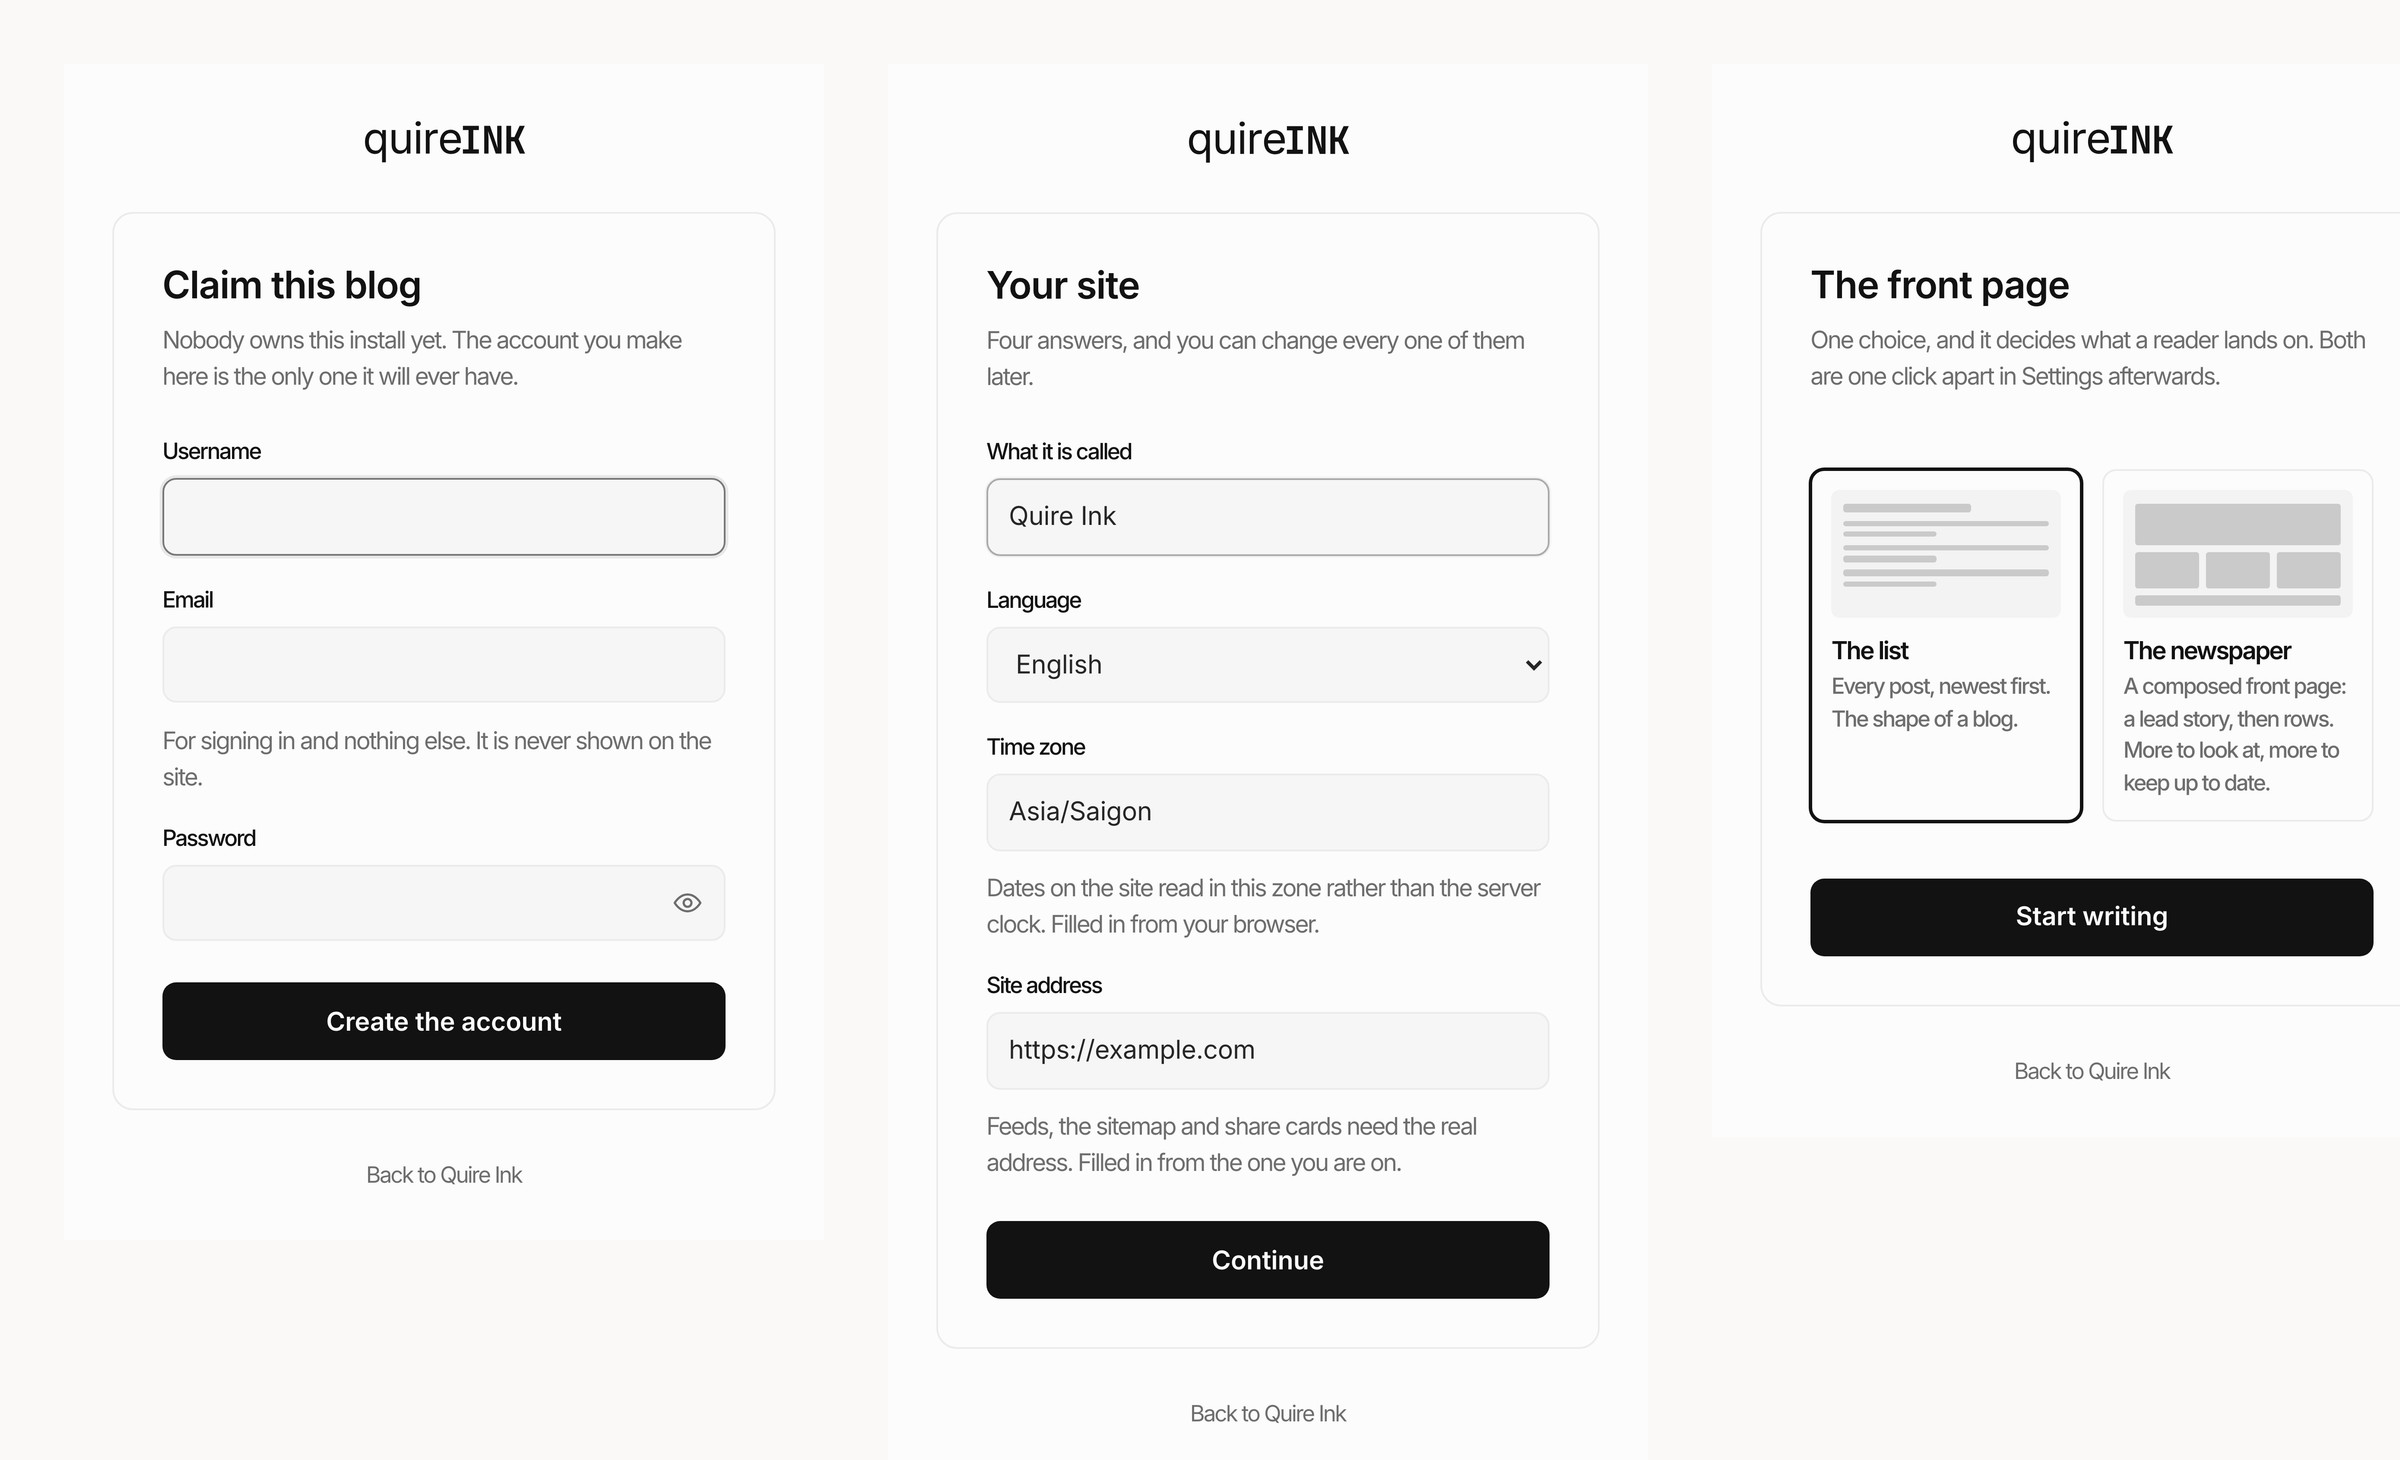
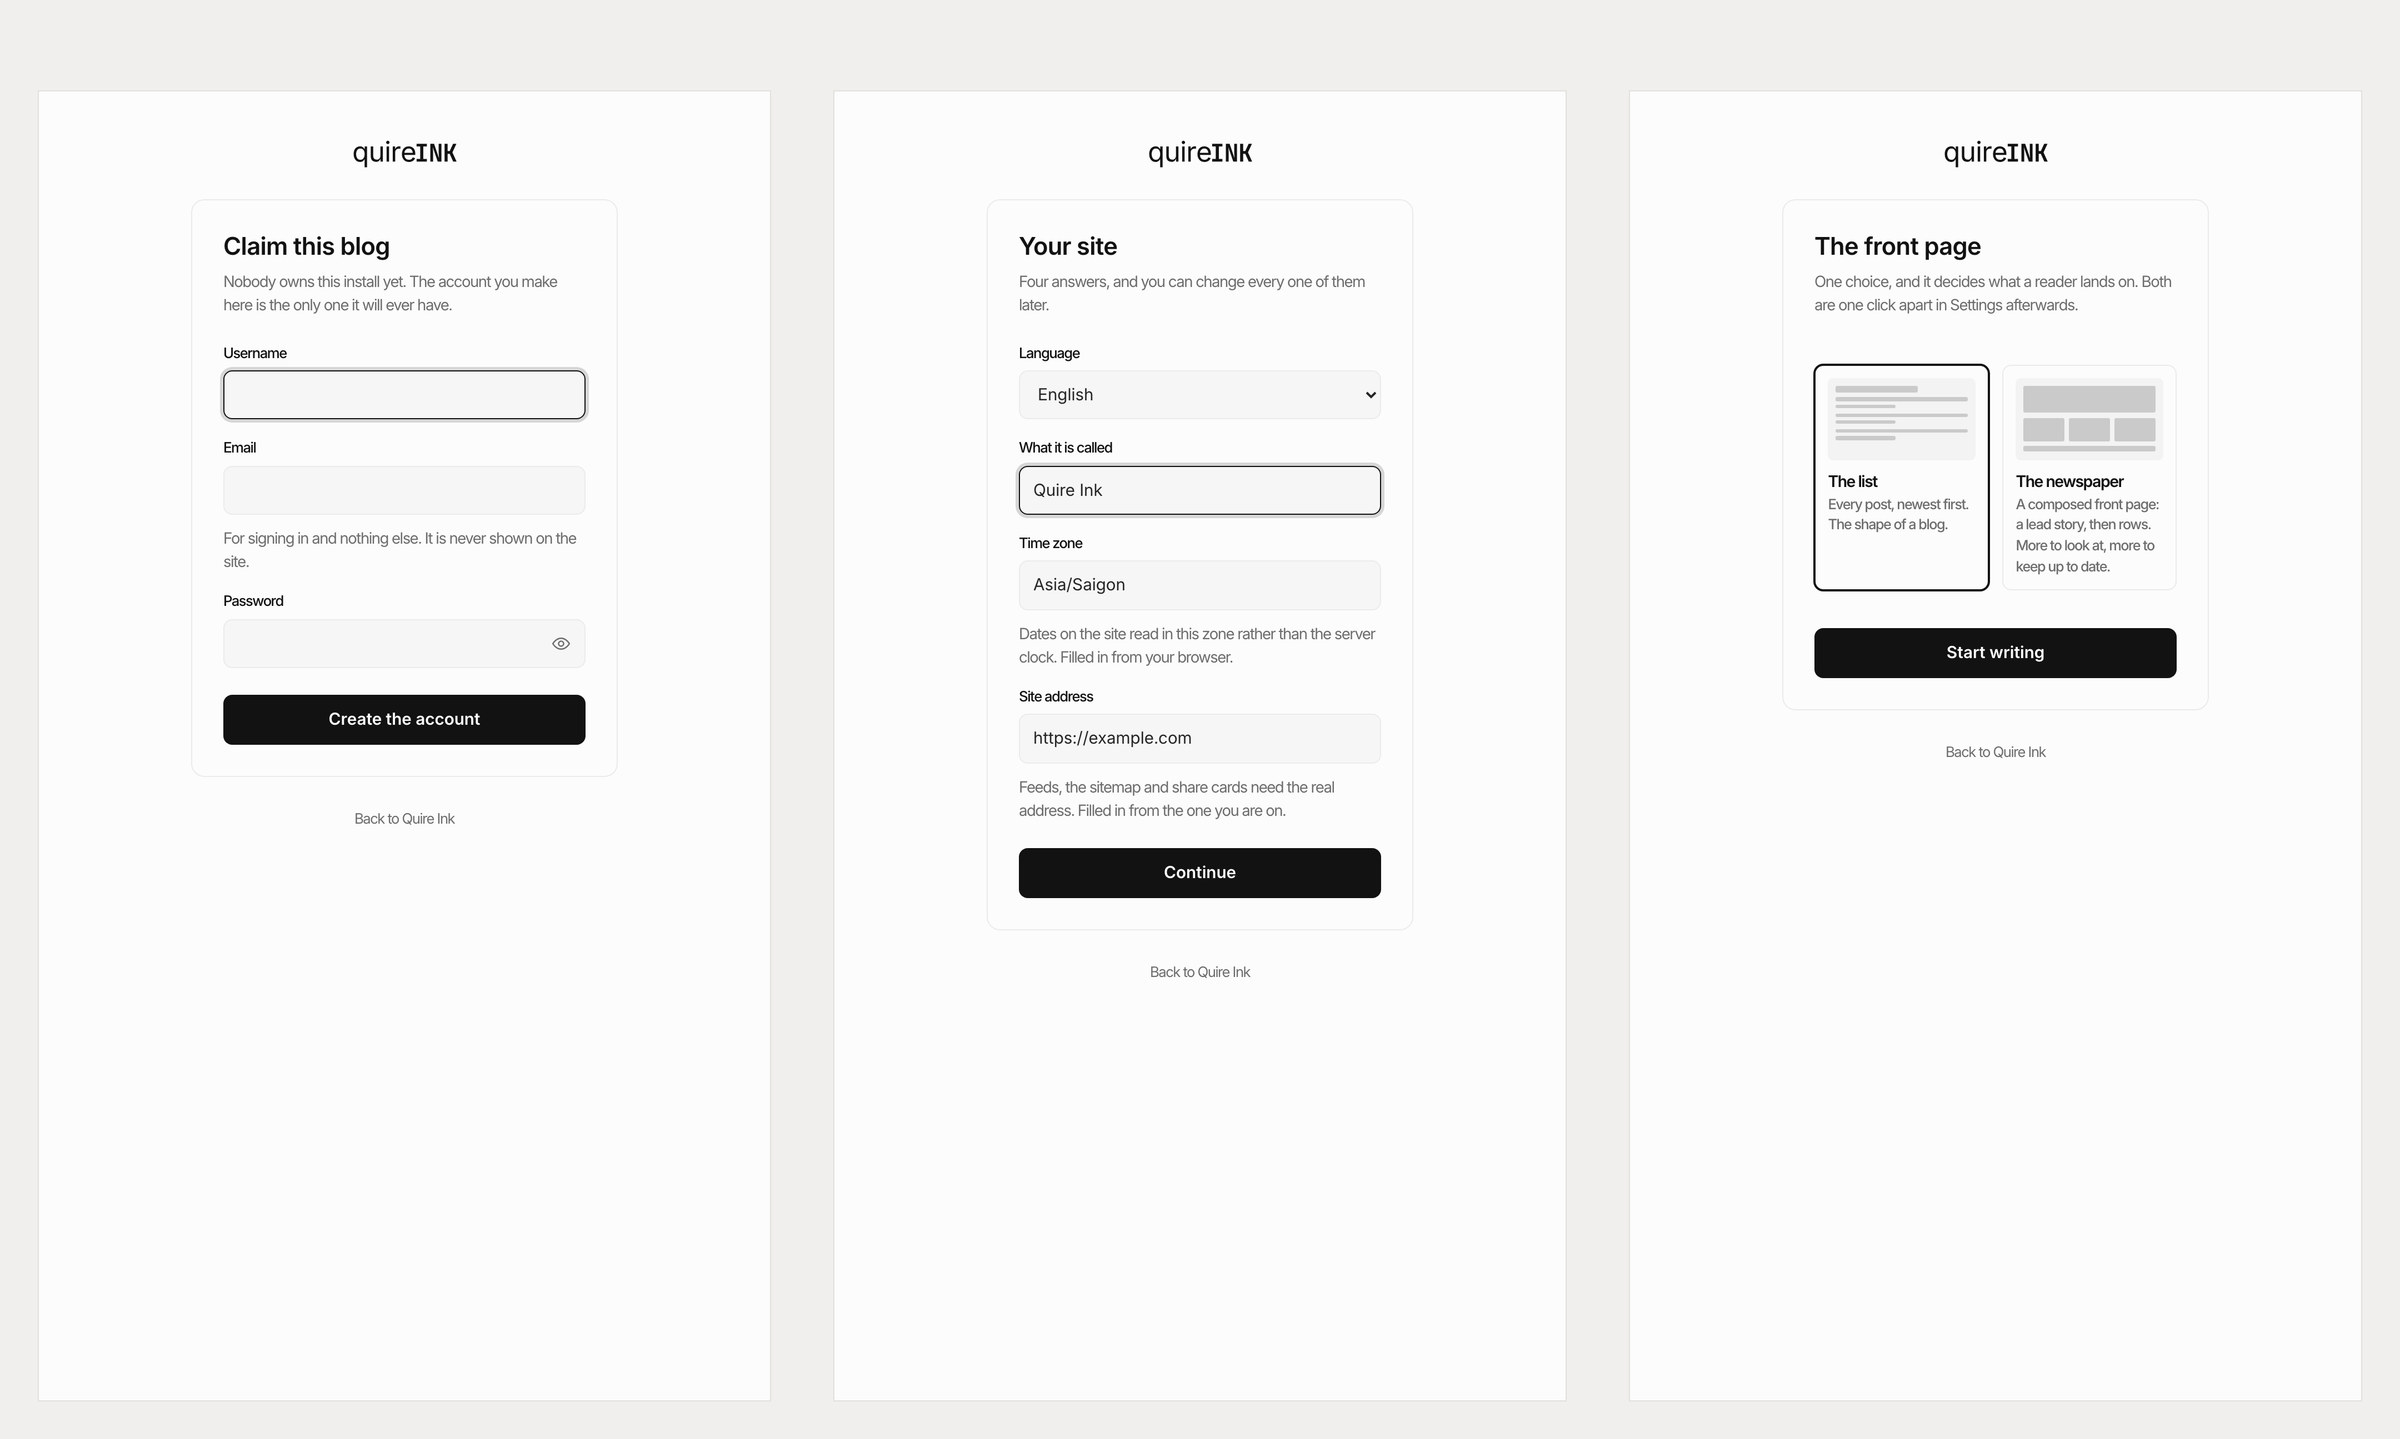
The pictures catch up with the product
All six README plates are reshot against the current code: book mode now shows
the bare a/A pair in the running head instead of the retired pill, and the
setup plate shows the language question first, which is where it moved. The
setup plate regenerates from a command now like the other five, top-aligned
and unlabelled — compose-demo draws nothing for an empty label instead of a
stray comment marker. Both READMEs' alt texts follow the new field order, and
admin-design.md stops saying six languages where there are eleven.

diff --git a/scripts/compose-demo.ts b/scripts/compose-demo.ts
@@ -163,7 +163,9 @@ let x = PAD
 const labels: string[] = []
 const composite: OverlayOptions[] = []
 for (const p of panels) {
-  labels.push(
+  // An empty label draws nothing at all: the setup plate labels itself ("Claim this
+  // blog", "Your site"), and a bare comment marker over it read as a typo.
+  if (p.label !== '') labels.push(
     `<text x="${x}" y="${PAD + LABEL_H - Math.round(labelPx * 0.75)}" fill="${INK}" `
     + `font-family="JetBrains Mono, ui-monospace, monospace" font-size="${labelPx}">`
     + `// ${p.label}</text>`,

diff --git a/README.vi.md b/README.vi.md
@@ -225,7 +225,7 @@ Mở nó ra là xong phần còn lại ngay trong trình duyệt: tên đăng nh
 
 <div align="center">
 
-<img src="docs/demo-setup.jpg" alt="Ba màn hình đầu tiên đặt cạnh nhau: Claim this blog với ô tên đăng nhập, email và mật khẩu; Your site với tên site, ngôn ngữ, múi giờ đã điền sẵn Asia/Saigon và địa chỉ site đã điền sẵn https://example.com; và The front page với hai hình vẽ nhỏ để chọn, danh sách bài hoặc trang nhất kiểu báo" width="960">
+<img src="docs/demo-setup.jpg" alt="Ba màn hình đầu tiên đặt cạnh nhau: Claim this blog với ô tên đăng nhập, email và mật khẩu; Your site với ngôn ngữ đứng đầu, rồi tên site, múi giờ đã điền sẵn Asia/Saigon và địa chỉ site đã điền sẵn https://example.com; và The front page với hai hình vẽ nhỏ để chọn, danh sách bài hoặc trang nhất kiểu báo" width="960">
 
 <sub>Toàn bộ phần cài đặt sau dòng log. Múi giờ và địa chỉ đến nơi đã điền sẵn — trình duyệt biết cả hai, mà cả hai đều sai mặc định và không nói gì khi sai. Thứ <b>không</b> được hỏi mới là thiết kế: bảng màu, phông chữ, chế độ sách và các công tắc tính năng đều ở lại một thẻ trên bảng điều khiển mở lại được, vì chưa có bài nào thì chưa ai đánh giá nổi.</sub>
 

diff --git a/README.md b/README.md
@@ -224,7 +224,7 @@ Open it and the rest is a browser: username, email, password, then the QR code f
 
 <div align="center">
 
-<img src="docs/demo-setup.jpg" alt="Three first-run screens side by side: Claim this blog, with username, email and password fields; Your site, with the name, language, a time zone already filled in as Asia/Saigon and a site address already filled in as https://example.com; and The front page, offering two small drawings to choose between, a list of posts or a composed newspaper front" width="960">
+<img src="docs/demo-setup.jpg" alt="Three first-run screens side by side: Claim this blog, with username, email and password fields; Your site, with the language first, then the name, a time zone already filled in as Asia/Saigon and a site address already filled in as https://example.com; and The front page, offering two small drawings to choose between, a list of posts or a composed newspaper front" width="960">
 
 <sub>The whole of setup after the log line. The time zone and the address arrive already filled in — the browser knows both, and both are wrong by default and silent about it. What is <b>not</b> asked is the design: palettes, fonts, book mode and the feature switches all stay on a dashboard card you can reopen, because nobody can judge them before the site has a single post on it.</sub>
 

diff --git a/docs/admin-design.md b/docs/admin-design.md
@@ -232,7 +232,7 @@ them 40px against the strip above it at 44, with no `aria-pressed` and no hover.
 which lives in the URL and so cannot be a `<Tabs>` with an `onChange`). `sm` has one
 modifier, `dense` (2026-08-17): tighter padding for the write pane's row of five, whose
 labels are the pane's own deliberately short `scope*` strings so five words share one line
-in all six languages — the row may not wrap.
+in all eleven languages — the row may not wrap.
 
 **One stat tile, one empty state.** `StatTile` was a second copy of `StatCard` that had
 already drifted a shade on its sub-line. `EmptyState` existed and two files used it while
@@ -363,6 +363,6 @@ Analytics 418 → 83ms. Cold load of `/admin` 501 → 329ms.
   better.
 
 Two items left this list on 2026-08-18: the editor chrome labels have long lived in
-`locales` (all six languages), and the narrow content tables DID become stacked list
+`locales` (all eleven languages), and the narrow content tables DID become stacked list
 rows — the comments queue, the subscriber list, the trash and the activity log are the
 one-sheet pages' two-column ledgers now.
